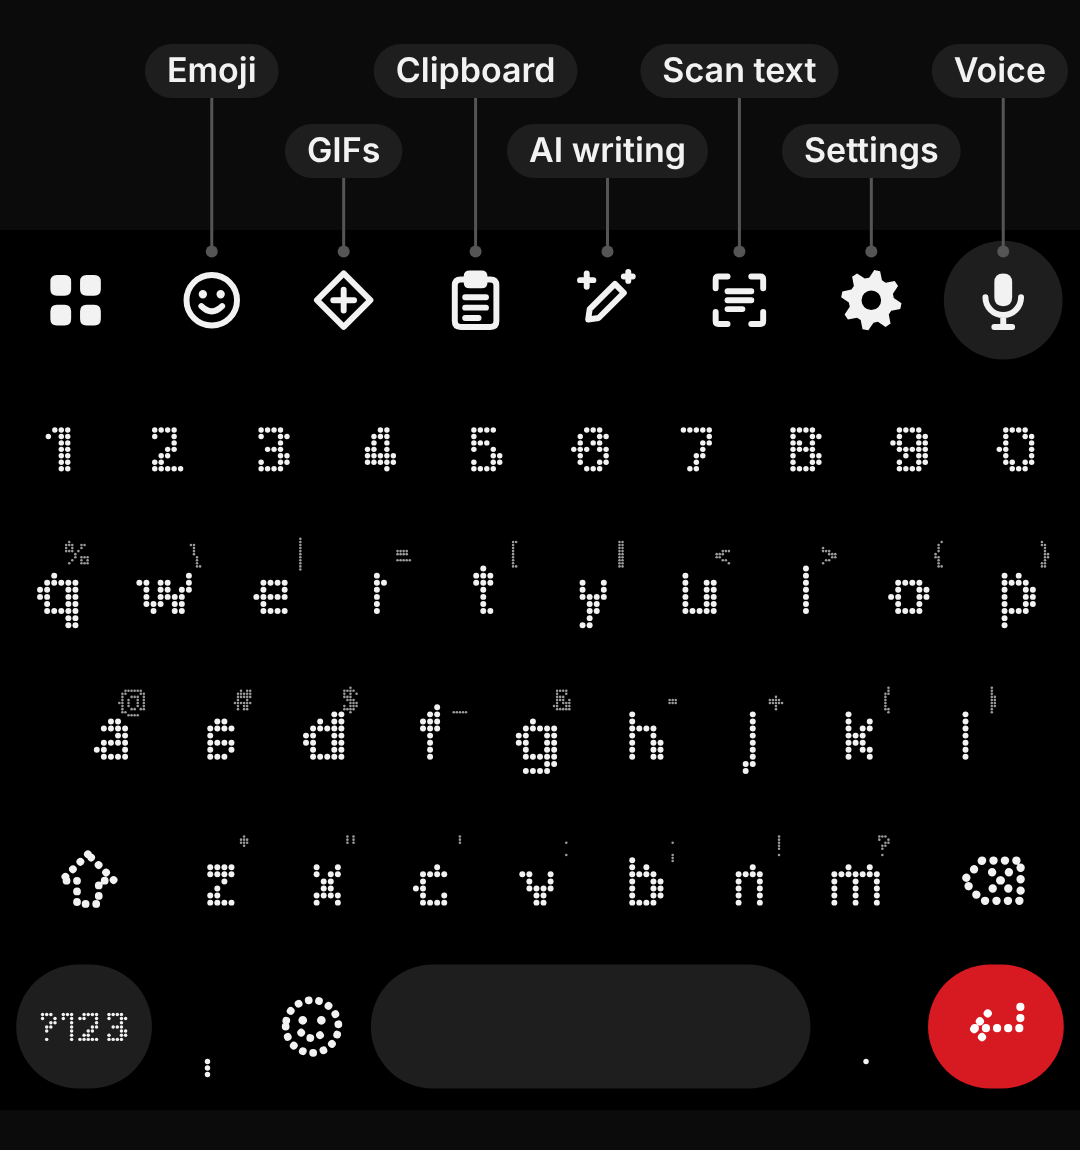
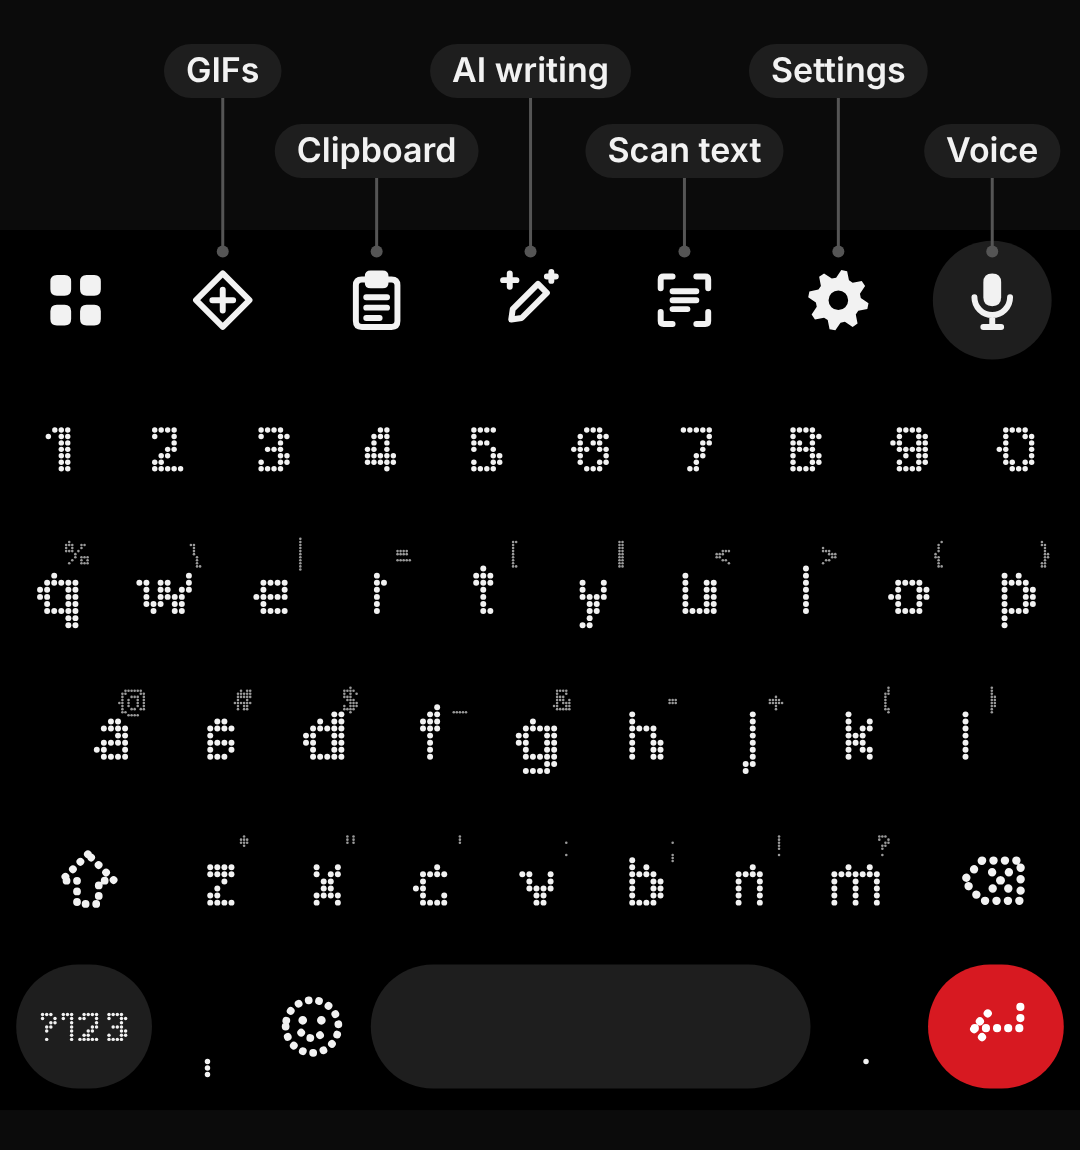
1.3: emoji search; emoji button only in the toolbar when the emoji key is off
Claude-Session: https://claude.ai/code/session_01RgW5PaEQRXyEfhdyiPKj7f

diff --git a/app/src/main/java/com/matrixkey/MatrixKeyService.kt b/app/src/main/java/com/matrixkey/MatrixKeyService.kt
@@ -21,6 +21,7 @@ import android.view.inputmethod.InputMethodManager
 import android.widget.FrameLayout
 import android.widget.ImageView
 import android.widget.LinearLayout
+import android.widget.TextView
 import androidx.core.content.FileProvider
 import androidx.core.view.inputmethod.EditorInfoCompat
 import androidx.core.view.inputmethod.InputConnectionCompat
@@ -73,6 +74,9 @@ class MatrixKeyService : InputMethodService(), KeyboardView.Listener, TopBarView
     private lateinit var overlay: OverlayView
     private var panel: View? = null
     private var gifPanel: GifPanel? = null
+    /** Live emoji results above the keys while searching emoji. */
+    private lateinit var emojiStrip: android.widget.HorizontalScrollView
+    private lateinit var emojiStripRow: LinearLayout
     private var aiPanel: AiPanel? = null
     private lateinit var theme: KeyboardTheme
 
@@ -130,7 +134,7 @@ class MatrixKeyService : InputMethodService(), KeyboardView.Listener, TopBarView
     private var isPassword = false
 
     // Internal text field (GIF search, AI prompt, emoji search)
-    private enum class Target { NONE, GIF_SEARCH, AI_PROMPT }
+    private enum class Target { NONE, GIF_SEARCH, AI_PROMPT, EMOJI_SEARCH }
     private var target = Target.NONE
     private val targetText = StringBuilder()
     private var aiPromptAction: AiClient.Action = AiClient.Action.CUSTOM
@@ -192,6 +196,13 @@ class MatrixKeyService : InputMethodService(), KeyboardView.Listener, TopBarView
         val column = LinearLayout(ctx).apply {
             orientation = LinearLayout.VERTICAL
             addView(topBar, LinearLayout.LayoutParams(ViewGroup.LayoutParams.MATCH_PARENT, ViewGroup.LayoutParams.WRAP_CONTENT))
+            emojiStripRow = LinearLayout(ctx).apply { orientation = LinearLayout.HORIZONTAL; gravity = android.view.Gravity.CENTER_VERTICAL }
+            emojiStrip = android.widget.HorizontalScrollView(ctx).apply {
+                isHorizontalScrollBarEnabled = false
+                visibility = View.GONE
+                addView(emojiStripRow)
+            }
+            addView(emojiStrip, LinearLayout.LayoutParams(ViewGroup.LayoutParams.MATCH_PARENT, (48 * resources.displayMetrics.density).toInt()))
             addView(content, LinearLayout.LayoutParams(ViewGroup.LayoutParams.MATCH_PARENT, ViewGroup.LayoutParams.WRAP_CONTENT))
         }
         val r = KeyboardRoot(ctx, column)
@@ -312,7 +323,8 @@ class MatrixKeyService : InputMethodService(), KeyboardView.Listener, TopBarView
         topBar.typeface = tf
         topBar.dotStyle = dot
         topBar.tools = buildList {
-            add(TopBarView.Tool.EMOJI)
+            // The emoji key on the keyboard already opens emoji; only add it here without one.
+            if (!prefs.emojiKey) add(TopBarView.Tool.EMOJI)
             if (prefs.gif) add(TopBarView.Tool.GIF)
             add(TopBarView.Tool.CLIPBOARD)
             if (prefs.ai) add(TopBarView.Tool.AI)
@@ -402,7 +414,7 @@ class MatrixKeyService : InputMethodService(), KeyboardView.Listener, TopBarView
     override fun onChar(text: String, fromLongPress: Boolean) {
         if (target != Target.NONE) {
             targetText.append(text)
-            topBar.searchText = targetText.toString()
+            targetChanged()
             if (shift == ShiftState.ON) setShift(ShiftState.OFF)
             return
         }
@@ -478,7 +490,7 @@ class MatrixKeyService : InputMethodService(), KeyboardView.Listener, TopBarView
     }
 
     private fun onSpace() {
-        if (target != Target.NONE) { targetText.append(' '); topBar.searchText = targetText.toString(); return }
+        if (target != Target.NONE) { targetText.append(' '); targetChanged(); return }
         val ic = currentInputConnection ?: return
         val now = System.currentTimeMillis()
         if (composing.isNotEmpty()) {
@@ -507,7 +519,7 @@ class MatrixKeyService : InputMethodService(), KeyboardView.Listener, TopBarView
     private fun onBackspace() {
         if (target != Target.NONE) {
             if (targetText.isNotEmpty()) targetText.deleteCharAt(targetText.length - 1)
-            topBar.searchText = targetText.toString()
+            targetChanged()
             return
         }
         val ic = currentInputConnection ?: return
@@ -611,7 +623,7 @@ class MatrixKeyService : InputMethodService(), KeyboardView.Listener, TopBarView
                     if (target == Target.NONE) return@post
                     if (targetText.isNotEmpty() && !targetText.endsWith(" ")) targetText.append(' ')
                     targetText.append(if (shift != ShiftState.OFF) w.replaceFirstChar { it.uppercase() } else w)
-                    topBar.searchText = targetText.toString()
+                    targetChanged()
                     if (shift == ShiftState.ON) setShift(ShiftState.OFF)
                 }
             }
@@ -724,7 +736,7 @@ class MatrixKeyService : InputMethodService(), KeyboardView.Listener, TopBarView
         if (target != Target.NONE) {
             val kept = dropLastWords(targetText.toString(), targetDeleteWords)
             targetText.clear(); targetText.append(kept)
-            topBar.searchText = kept
+            targetChanged()
             targetDeleteWords = 0
             return
         }
@@ -1095,9 +1107,54 @@ class MatrixKeyService : InputMethodService(), KeyboardView.Listener, TopBarView
         }
     }
 
+    /** The search / prompt line changed: redraw it, and update emoji results live. */
+    private fun targetChanged() {
+        topBar.searchText = targetText.toString()
+        if (target == Target.EMOJI_SEARCH) showEmojiResults(targetText.toString())
+    }
+
+    private fun showEmojiResults(q: String) {
+        if (!::emojiStrip.isInitialized) return
+        emojiStripRow.removeAllViews()
+        val found = com.matrixkey.engine.EmojiData.search(q)
+        val d = resources.displayMetrics.density
+        if (q.isBlank() || found.isEmpty()) {
+            emojiStripRow.addView(TextView(this).apply {
+                text = if (q.isBlank()) "Type to find an emoji" else "No emoji for “${q.trim()}”"
+                setTextColor(theme.sub); textSize = 14f
+                setPadding((16 * d).toInt(), 0, 0, 0)
+            })
+        } else found.take(40).forEach { e ->
+            emojiStripRow.addView(TextView(this).apply {
+                text = e; textSize = 26f
+                gravity = android.view.Gravity.CENTER
+                setPadding((10 * d).toInt(), 0, (10 * d).toInt(), 0)
+                setOnClickListener {
+                    keyboard.feedback.key(it)
+                    rememberEmoji(e)
+                    currentInputConnection?.commitText(e, 1)
+                }
+            }, LinearLayout.LayoutParams(ViewGroup.LayoutParams.WRAP_CONTENT, ViewGroup.LayoutParams.MATCH_PARENT))
+        }
+        emojiStrip.setBackgroundColor(theme.bg)
+        emojiStrip.visibility = View.VISIBLE
+        emojiStrip.scrollTo(0, 0)
+    }
+
+    private fun rememberEmoji(e: String) {
+        val sp = prefs.sp
+        val recents = sp.getString("recent_emoji", "")!!.split(" ").filter { it.isNotEmpty() && it != e }.toMutableList()
+        recents.add(0, e)
+        sp.edit().putString("recent_emoji", recents.take(32).joinToString(" ")).apply()
+    }
+
     override fun onSearchSubmit() {
         val q = targetText.toString().trim()
         when (target) {
+            Target.EMOJI_SEARCH -> {
+                closeTarget()
+                showEmoji(q)
+            }
             Target.GIF_SEARCH -> {
                 closeTarget()
                 showGif(q)
@@ -1163,6 +1220,7 @@ class MatrixKeyService : InputMethodService(), KeyboardView.Listener, TopBarView
     private fun closeTarget(redraw: Boolean = true) {
         if (target == Target.NONE) return
         target = Target.NONE
+        if (::emojiStrip.isInitialized) emojiStrip.visibility = View.GONE
         targetText.clear()
         if (redraw && ::topBar.isInitialized) {
             topBar.mode = TopBarView.BarMode.SUGGESTIONS
@@ -1209,12 +1267,18 @@ class MatrixKeyService : InputMethodService(), KeyboardView.Listener, TopBarView
         refreshSuggestions()
     }
 
-    private fun showEmoji() {
+    private fun showEmoji(query: String = "") {
         if (composing.isNotEmpty()) finishWord(autocorrect = true)
         showPanelView(EmojiPanel(this, ui(),
             onEmoji = { e -> currentInputConnection?.commitText(e, 1); phantomSpace = false },
             onBackspace = { onBackspace() },
-            onClose = { closePanels() }))
+            onClose = { closePanels() },
+            onSearchTap = {
+                openTarget(Target.EMOJI_SEARCH, "Search emoji", Icon.SEARCH)
+                showEmojiResults("")
+            },
+            results = if (query.isNotBlank()) com.matrixkey.engine.EmojiData.search(query) else null,
+            query = query))
     }
 
     private fun showClipboard() {

diff --git a/app/src/main/java/com/matrixkey/engine/EmojiData.kt b/app/src/main/java/com/matrixkey/engine/EmojiData.kt
@@ -32,10 +32,46 @@ object EmojiData {
 
     fun forWord(word: String): String? = keywords[word.lowercase()]?.firstOrNull()
 
-    /** Simple name search for the emoji panel. */
+    /** Extra search words people use that aren't in the official names. */
+    private val extraAliases: Map<String, String> = mapOf(
+        "😂" to "lol haha laugh crying funny", "🤣" to "lol rofl laugh funny", "😭" to "cry sob sad",
+        "❤" to "love heart red", "😍" to "love heart eyes crush", "🥰" to "love hearts adore",
+        "👍" to "like yes ok good thumbs up", "👎" to "dislike no bad thumbs down", "🙏" to "please thanks pray hope",
+        "🔥" to "fire lit hot", "💯" to "hundred perfect", "🥳" to "party celebrate birthday", "🎉" to "party congrats celebrate tada",
+        "😎" to "cool sunglasses", "🤔" to "think hmm", "🙄" to "eye roll whatever", "😴" to "sleep tired zzz",
+        "💀" to "dead skull dying", "👀" to "eyes look see", "🤷" to "shrug idk whatever", "🤦" to "facepalm",
+        "😘" to "kiss love", "🤗" to "hug", "💪" to "strong muscle gym", "👏" to "clap applause bravo",
+        "😢" to "sad tear", "😡" to "angry mad rage", "😱" to "scream omg shock", "🤯" to "mind blown wow",
+        "👋" to "hi hello bye wave", "✅" to "check done yes", "❌" to "no wrong x cross", "☕" to "coffee tea",
+        "🍕" to "pizza food", "🍺" to "beer drink", "🎂" to "birthday cake", "🐶" to "dog puppy", "🐱" to "cat kitty",
+    )
+
+    /** Every emoji with the words it can be found by (its Unicode name plus common words). */
+    private val index: List<Pair<String, List<String>>> by lazy {
+        val aliasesFor = HashMap<String, MutableList<String>>()
+        keywords.forEach { (word, list) -> list.forEach { e -> aliasesFor.getOrPut(e) { ArrayList() } += word } }
+        extraAliases.forEach { (e, words) -> aliasesFor.getOrPut(e) { ArrayList() } += words.split(' ') }
+        categories.flatMap { it.second }.distinct().map { e ->
+            val name = runCatching { Character.getName(e.codePointAt(0)) }.getOrNull().orEmpty().lowercase()
+            val words = (name.split(' ', '-') + aliasesFor[e].orEmpty()).filter { it.isNotBlank() }
+            e to words
+        }
+    }
+
+    /** Search by name or common word: "heart", "thumbs up", "lol", "pizz". */
     fun search(query: String): List<String> {
-        val q = query.lowercase().trim()
-        if (q.isEmpty()) return emptyList()
-        return keywords.filterKeys { it.startsWith(q) }.values.flatten().distinct()
+        val tokens = query.lowercase().split(' ').filter { it.isNotBlank() }
+        if (tokens.isEmpty()) return emptyList()
+        val hits = ArrayList<Pair<String, Int>>()
+        index.forEachIndexed { order, (e, words) ->
+            var score = 0
+            for (t in tokens) {
+                val best = words.maxOfOrNull { w -> if (w == t) 3 else if (w.startsWith(t)) 1 else 0 } ?: 0
+                if (best == 0) { score = -1; break }
+                score += best
+            }
+            if (score > 0) hits += e to (score * 1000 - order)
+        }
+        return hits.sortedByDescending { it.second }.map { it.first }.take(80)
     }
 }

diff --git a/app/src/main/java/com/matrixkey/panels/EmojiPanel.kt b/app/src/main/java/com/matrixkey/panels/EmojiPanel.kt
@@ -25,6 +25,11 @@ class EmojiPanel(
     private val onEmoji: (String) -> Unit,
     private val onBackspace: () -> Unit,
     private val onClose: () -> Unit,
+    /** Opens the search line ("Search emoji") above the keys. */
+    private val onSearchTap: () -> Unit = {},
+    /** Results of a search, shown first; null for the normal panel. */
+    private val results: List<String>? = null,
+    private val query: String = "",
 ) : LinearLayout(context) {
 
     private val sp = PreferenceManager.getDefaultSharedPreferences(context)
@@ -37,6 +42,9 @@ class EmojiPanel(
 
     init {
         orientation = VERTICAL
+        addView(searchPill(), LayoutParams(LayoutParams.MATCH_PARENT, ui.px(40f)).apply {
+            setMargins(ui.px(8f), ui.px(4f), ui.px(8f), ui.px(2f))
+        })
         scroll.isVerticalScrollBarEnabled = false
         scroll.addView(grid, ViewGroup.LayoutParams(ViewGroup.LayoutParams.MATCH_PARENT, ViewGroup.LayoutParams.WRAP_CONTENT))
         addView(scroll, LayoutParams(LayoutParams.MATCH_PARENT, 0, 1f))
@@ -44,8 +52,26 @@ class EmojiPanel(
         grid.setSections(buildSections())
     }
 
+    private fun searchPill(): View {
+        val row = ui.row()
+        ui.pressable(row, ui.theme.key, 20f)
+        row.setPadding(ui.px(14f), 0, ui.px(14f), 0)
+        val icon = object : View(context) {
+            override fun onDraw(canvas: Canvas) {
+                Icons.draw(canvas, Icon.SEARCH, width / 2f, height / 2f, height * 0.9f, ui.theme.sub, false)
+            }
+        }
+        row.addView(icon, LayoutParams(ui.px(20f), ui.px(20f)))
+        row.addView(ui.text(if (query.isNotBlank()) query else "Search emoji", 15f, if (query.isNotBlank()) ui.theme.text else ui.theme.sub).apply {
+            setPadding(ui.px(10f), 0, 0, 0)
+        })
+        row.setOnClickListener { ui.haptic(it); onSearchTap() }
+        return row
+    }
+
     private fun buildSections(): List<Pair<String, List<String>>> {
         val s = ArrayList<Pair<String, List<String>>>()
+        if (results != null) s += (if (results.isEmpty()) "No matches" else "Results") to results
         if (recents.isNotEmpty()) s += "Recent" to recents.toList()
         s += EmojiData.categories
         return s
@@ -62,7 +88,7 @@ class EmojiPanel(
         val sections = buildSections()
         sections.forEachIndexed { i, (name, list) ->
             val tab = TextView(context).apply {
-                text = if (name == "Recent") "🕘" else list.first()
+                text = when { name == "Recent" -> "🕘"; name == "Results" || list.isEmpty() -> "🔍"; else -> list.first() }
                 textSize = 20f
                 gravity = Gravity.CENTER
                 setPadding(ui.px(10f), 0, ui.px(10f), 0)

diff --git a/tools/readme-images/render.html b/tools/readme-images/render.html
@@ -195,7 +195,7 @@ function topBar(ctx, W, th, o) {
   const left = { x: 6, y: top, w: btn, h: btn }, right = { x: W - 6 - btn, y: top, w: btn, h: btn };
   if (o.bar === 'toolbar') {
     roundButton(ctx, left, o.panel ? 'KEYBOARD' : 'GRID', o.panel ? th.chip : null, th.text);
-    const tools = ['EMOJI', 'GIF', 'CLIPBOARD', 'AI', 'SCAN', 'SETTINGS', 'MIC'];
+    const tools = ['GIF', 'CLIPBOARD', 'AI', 'SCAN', 'SETTINGS', 'MIC'];
     const area = W - (left.x + btn) - 8, cell = area / tools.length;
     o.toolCenters = [];
     tools.forEach((t, i) => {
@@ -256,7 +256,7 @@ const PAGE = '#0B0B0B', INK = '#F2F2F2', SUB = '#9A9A9A';
   const ctx = mk('toolbar', W * S, H, PAGE);
   ctx.save(); ctx.beginPath(); ctx.roundRect(0, top, W * S, H - top - 40, 0); ctx.clip();
   keyboard(ctx, 0, top, W, S, th, o); ctx.restore();
-  const names = ['Emoji', 'GIFs', 'Clipboard', 'AI writing', 'Scan text', 'Settings', 'Voice'];
+  const names = ['GIFs', 'Clipboard', 'AI writing', 'Scan text', 'Settings', 'Voice'];
   o.toolCenters.forEach((cx, i) => {
     const x = cx * S, ly = i % 2 === 0 ? 70 : 150;
     ctx.strokeStyle = '#555'; ctx.lineWidth = 3; ctx.beginPath(); ctx.moveTo(x, ly + 28); ctx.lineTo(x, top + 8 * S); ctx.stroke();

diff --git a/README.md b/README.md
@@ -23,13 +23,13 @@ Open **Settings › Theme** to choose, with a live preview and Cancel / Apply:
 
 ## Toolbar
 
-![The toolbar: Emoji, GIFs, Clipboard, AI writing, Scan text, Settings and Voice](docs/images/toolbar.png)
+![The toolbar: GIFs, Clipboard, AI writing, Scan text, Settings and Voice](docs/images/toolbar.png)
 
 Tap the **grid** button at the top left to switch between the toolbar and word suggestions. When a panel is open, the same button (now a keyboard) takes you back to the keys.
 
 | Button | What it does |
 |---|---|
-| **Emoji** | Emoji panel with your recent emoji |
+| **Emoji** | Opened from the smiley key next to the space bar (the toolbar only gets an emoji button if you turn that key off). Recent emoji, categories, and a **search bar**: type "heart", "thumbs up" or "lol" and tap a result |
 | **GIFs** | Search and send GIFs (needs a free key, see below) |
 | **Clipboard** | Clipboard history with pinning and auto-clear; skips passwords and one-time codes |
 | **AI writing** | Proofread or rewrite your message (needs a free key, see below) |

diff --git a/docs/release-notes/v1.3.md b/docs/release-notes/v1.3.md
@@ -1,0 +1,12 @@
+Emoji search, and a tidier toolbar.
+
+### New
+- **Search emoji**: open emoji with the smiley key and tap **Search emoji** at the top. Type or swipe a word ("heart", "thumbs up", "pizza", "lol") and matching emoji appear in a row above the keys as you type; tap one to insert it and keep going. Press enter to see every match in the emoji panel. Search uses each emoji's official name plus everyday words.
+
+### Changed
+- **No duplicate emoji button**: the toolbar no longer has an emoji button, since the smiley key next to the space bar already opens emoji. If you turn that key off in *Settings › Preferences*, the toolbar button comes back.
+
+### Install
+Download the APK below and open it on your phone; it installs over earlier versions and keeps your settings and dictionary. Requires Android 10+ on a 64-bit phone.
+
+Built and signed by GitHub Actions from the tagged commit. Unofficial app, not affiliated with Nothing. Provided as-is under the MIT licence.
